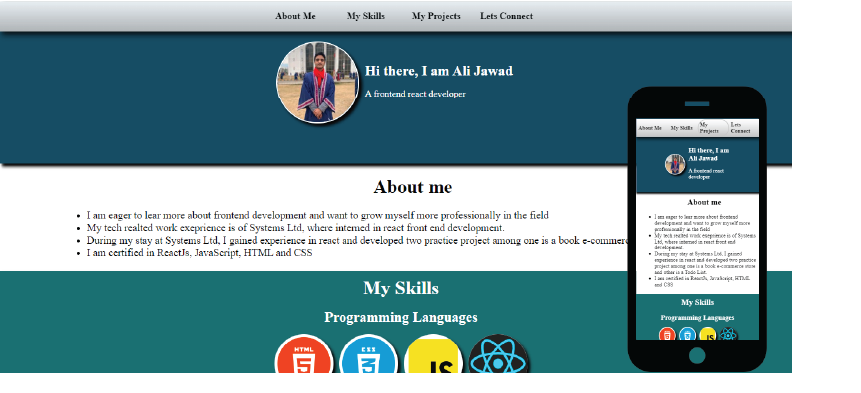
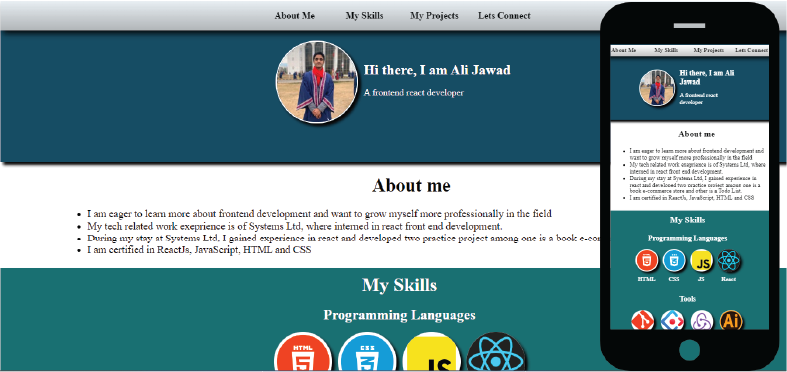
added tralive project

diff --git a/src/Sections/MyProjects.jsx b/src/Sections/MyProjects.jsx
@@ -2,6 +2,7 @@ import portfolioProject from "../assets/Portfolio.png";
 import bookStoreProject from "../assets/The Book Store.png";
 import AddProject from "../Components/AddProject";
 import todoProject from "../assets/TodoListProject.png";
+import traliveProject from "../assets/Tralive project.png";
 
 export default function MyProjects() {
   return (
@@ -23,6 +24,12 @@ export default function MyProjects() {
           image={portfolioProject}
           title="Portfolio"
           description="A running portfolio of mine."
+        />
+        <AddProject
+          image={traliveProject}
+          title="Tralive"
+          description="A copy of Tralive theme developed on pure HTML CSS"
+          projectURL="https://syed-ali-jawad.github.io/Tralive-Project/"
         />
       </div>
     </div>

diff --git a/src/Components/AddProject.jsx b/src/Components/AddProject.jsx
@@ -1,9 +1,23 @@
-import { Card, Image } from "antd";
+import { Card, Image, Button } from "antd";
 
-export default function AddProject({ image, title, description }) {
+export default function AddProject({ image, title, description, projectURL }) {
   return (
-    <Card hoverable cover={<Image src={image} />} style={{ width: "40%" }}>
+    <Card
+      hoverable
+      cover={<Image src={image} />}
+      style={{ margin: "1% auto", width: "40%" }}
+    >
       <Card.Meta title={title} description={description} />
+      {projectURL ? (
+        <Button
+          target="_blank"
+          style={{ margin: "3% auto" }}
+          type="primary"
+          href={projectURL}
+        >
+          View Project
+        </Button>
+      ) : null}
     </Card>
   );
 }

diff --git a/src/App.css b/src/App.css
@@ -212,7 +212,9 @@ h2 {
 h2 {
   color: white;
 }
-
+#projects h1 {
+  margin: 2% auto;
+}
 @media only screen and (max-width: 768px) {
   .profile-image {
     width: 20%;
